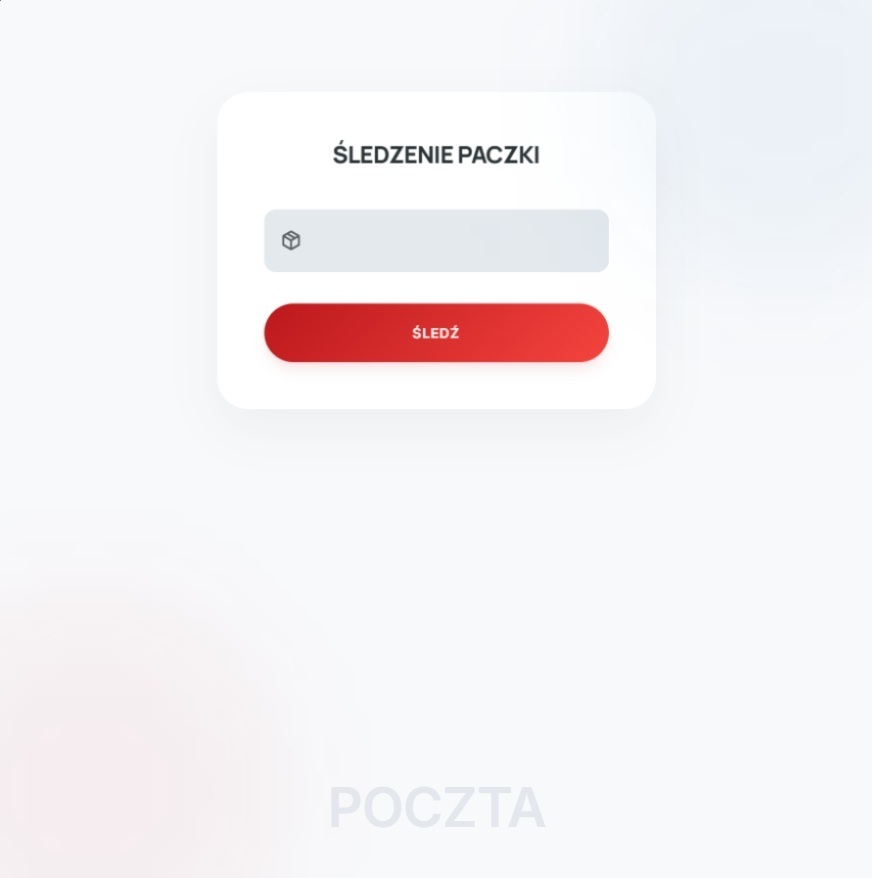
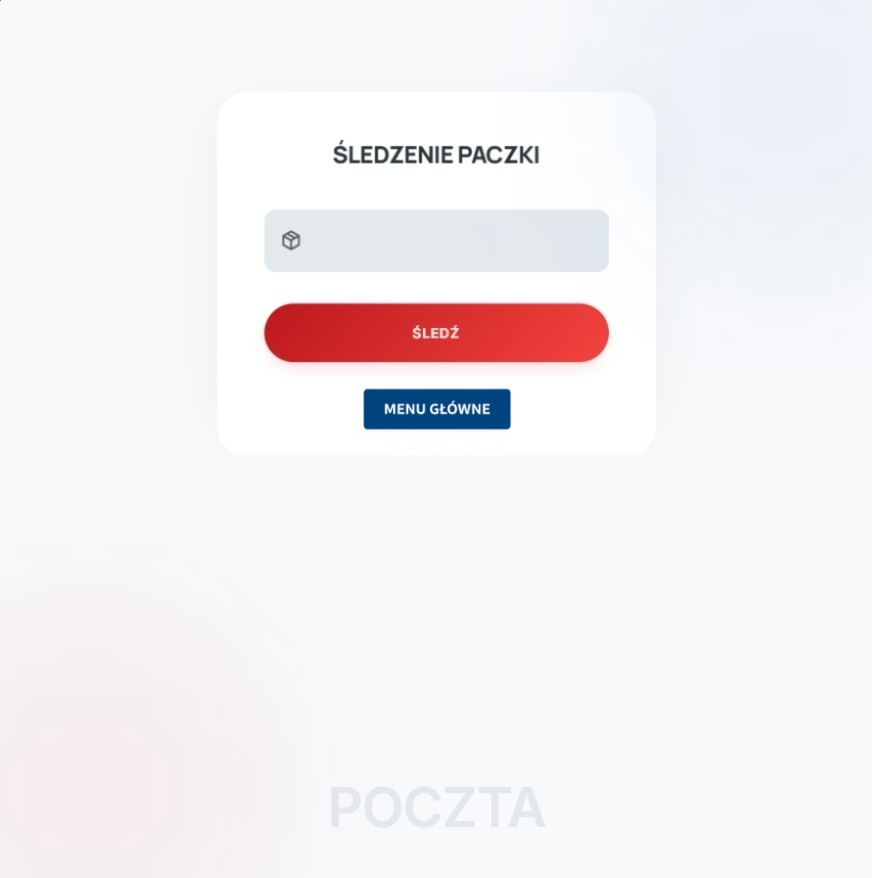
idealna nawigacja, drobne poprawki

Changed region(s): [[0.4025, 0.4305, 0.5883, 0.492]]

diff --git a/src/GUI/SendPackWindow.java b/src/GUI/SendPackWindow.java
@@ -124,33 +124,29 @@ public class SendPackWindow extends JFrame {
         przyciskPoz2.setText( "Miejscowość");
         przyciskPoz3.setText( "Ulica, numer budynku/mieszkania");
         przyciskPoz4.setText( "Numer telefonu");
-
-
     }
 
 
 
-    public SendPackWindow() {
+    public SendPackWindow(MenuWindow menu) {
         setTitle("nadanie paczki");
         setSize(800, 820);
         setLayout(null);
         setResizable(false);
         setVisible(false);
 
-        ImageIcon tlo = new ImageIcon("src/resources/nadaj.jpg");
+        ImageIcon tlo = new ImageIcon("src/resources/nadajv2.jpg");
         ImageIcon dalej = new ImageIcon("src/resources/dalej.jpg");
         ImageIcon a = new ImageIcon("src/resources/a.jpg");
         ImageIcon b = new ImageIcon("src/resources/b.jpg");
         ImageIcon c = new ImageIcon("src/resources/c.jpg");
+        ImageIcon d = new ImageIcon("src/resources/menuklikniete.jpg");
 
         JLabel dalejButton = new JLabel(dalej);
         JLabel aButton = new JLabel(a);
         JLabel bButton = new JLabel(b);
         JLabel cButton = new JLabel(c);
-
-
-
-
+        JLabel menuKlikniete = new JLabel(d);
 
 
         Image img = tlo.getImage().getScaledInstance(800, 820, Image.SCALE_SMOOTH);
@@ -167,10 +163,6 @@ public class SendPackWindow extends JFrame {
                 System.out.println("X: " + e.getX() + " Y: " + e.getY());
             }
         });
-
-
-
-
         JButton przyciskGab = createButton(240, 169, 100, 77, "");
         background.add(przyciskGab);
         background.add(aButton);
@@ -188,16 +180,24 @@ public class SendPackWindow extends JFrame {
         placeBlady(235, 588, 340, 60, dalejButton);
         background.add(dalejButton);
 
+        JButton menuKliknieteButton = createButton(321, 676, 162, 39, "");
+        background.add(menuKliknieteButton);
+        placeBlady(295, 660, 218, 73, menuKlikniete);
+        menuKliknieteButton.addMouseListener(new java.awt.event.MouseAdapter() {
+            public void mouseClicked(java.awt.event.MouseEvent e) {
+                setVisible(false);
+                menu.setVisible(true);
+            }
+        });
+        background.add(menuKlikniete);
+
 
 
 
 
         background.add(przyciskPoz);
-
         background.add(przyciskPoz2);
-
         background.add(przyciskPoz3);
-
         background.add(przyciskPoz4);
 
         textListener(przyciskPoz, "Imię i Nazwisko");
@@ -206,6 +206,7 @@ public class SendPackWindow extends JFrame {
         textListener(przyciskPoz4, "Numer telefonu");
 
         mouseListenerIMG(przyciskDalej, dalejButton);
+        mouseListenerIMG(menuKliknieteButton, menuKlikniete);
        // mouseListenerIMG(przyciskGab, aButton);
        // mouseListenerIMG(przyciskGab2, bButton);
         //mouseListenerIMG(przyciskGab3, cButton);
@@ -218,11 +219,5 @@ public class SendPackWindow extends JFrame {
         util.maxTextLenght(przyciskPoz2,20);
         util.maxTextLenght(przyciskPoz3,70);
         util.maxTextLenghtPhone(przyciskPoz4,9);
-
-
-
-
-
-
 
     }}

diff --git a/src/GUI/FollowPackWindow.java b/src/GUI/FollowPackWindow.java
@@ -9,7 +9,7 @@ public class FollowPackWindow extends JFrame{
     public boolean isFirstClick=true;
     Utils util = new Utils();
 
-    public FollowPackWindow(){
+    public FollowPackWindow(MenuWindow menu){
         setTitle("Śledzenie paczki");
         setSize(800,820);
         setLayout(null);
@@ -19,9 +19,11 @@ public class FollowPackWindow extends JFrame{
 
         ImageIcon tlo =new ImageIcon("src/resources/sledzenie.jpg");
         ImageIcon sledz3 =new ImageIcon("src/resources/sledz3.jpg");
+        ImageIcon d = new ImageIcon("src/resources/menuklikniete.jpg");
 
         JLabel background = new JLabel(tlo);
         JLabel followButton2 = new JLabel(sledz3);
+        JLabel menuKlikniete = new JLabel(d);
 
         background.setBounds(-40,0,872,878);
         background.setLayout(null);
@@ -111,6 +113,20 @@ public class FollowPackWindow extends JFrame{
                 followButton2.setVisible(false);
             }
         });
+
+
+
+        JButton menuKliknieteButton = SendPackWindow.createButton(364, 390, 147, 39, "");
+        background.add(menuKliknieteButton);
+        SendPackWindow.placeBlady(338, 380, 200, 73, menuKlikniete);
+        SendPackWindow.mouseListenerIMG(menuKliknieteButton, menuKlikniete);
+        menuKliknieteButton.addMouseListener(new java.awt.event.MouseAdapter() {
+            public void mouseClicked(java.awt.event.MouseEvent e) {
+                setVisible(false);
+                menu.setVisible(true);
+            }
+        });
+        background.add(menuKlikniete);
 
 
 

diff --git a/src/GUI/UserProfileWindow.java b/src/GUI/UserProfileWindow.java
@@ -17,12 +17,14 @@ public class UserProfileWindow extends JFrame {
         ImageIcon historia = new ImageIcon("src/resources/historia.jpg");
         ImageIcon wyloguj = new ImageIcon("src/resources/wyloguj.jpg");
         ImageIcon avatarCzerw = new ImageIcon("src/resources/avatarCzerw.jpg");
+        ImageIcon d = new ImageIcon("src/resources/menukliknietev2.jpg");
 
 
         JLabel background = new JLabel(tlo);
         JLabel historiaButton = new JLabel(historia);
         JLabel wylogujButton= new JLabel(wyloguj);
         JLabel avatarCzerwButton = new JLabel(avatarCzerw);
+        JLabel menuKlikniete = new JLabel(d);
 
 
         background.setBounds(0, 0, 833, 847);
@@ -94,6 +96,18 @@ public class UserProfileWindow extends JFrame {
         SendPackWindow.mouseListenerIMG(przycisk, historiaButton);
         SendPackWindow.mouseListenerIMG(przycisk2, wylogujButton);
         SendPackWindow.mouseListenerIMG(przycisk3, avatarCzerwButton);
+
+        JButton menuKliknieteButton = SendPackWindow.createButton(355, 649, 128, 39, "");
+        background.add(menuKliknieteButton);
+        SendPackWindow.placeBlady(340, 642, 160, 50, menuKlikniete);
+        SendPackWindow.mouseListenerIMG(menuKliknieteButton, menuKlikniete);
+        menuKliknieteButton.addMouseListener(new java.awt.event.MouseAdapter() {
+            public void mouseClicked(java.awt.event.MouseEvent e) {
+                setVisible(false);
+                menu.setVisible(true);
+            }
+        });
+        background.add(menuKlikniete);
 
 
 

diff --git a/src/GUI/MenuWindow.java b/src/GUI/MenuWindow.java
@@ -14,8 +14,8 @@ return x;
     }
     public MenuWindow(String loginName){
 
-        SendPackWindow SendPack = new SendPackWindow();
-        FollowPackWindow follow = new FollowPackWindow();
+        SendPackWindow SendPack = new SendPackWindow(this);
+        FollowPackWindow follow = new FollowPackWindow(this);
         UserProfileWindow UserProfile = new UserProfileWindow(SendPack, follow, this);
 
 loginNamee=loginName;
@@ -86,6 +86,7 @@ loginNamee=loginName;
 
         sendPackButton.addActionListener(e -> {
             System.out.println("Kliknieto nadaj");
+            setVisible(false);
             SendPack.setVisible(true);
 
         });
@@ -111,9 +112,8 @@ loginNamee=loginName;
             }
         });
         followButton.addActionListener(e -> {
-            System.out.println("Kliknieto sledz");
 
-
+            setVisible(false);
             follow.setVisible(true);
 
         });
@@ -139,7 +139,9 @@ loginNamee=loginName;
         });
         profileButton.addActionListener(e -> {
             System.out.println("Kliknieto profil uzytkownika");
+            setVisible(false);
             UserProfile.setVisible(true);
+
 
         });
         profileButton.setBorder(null);
